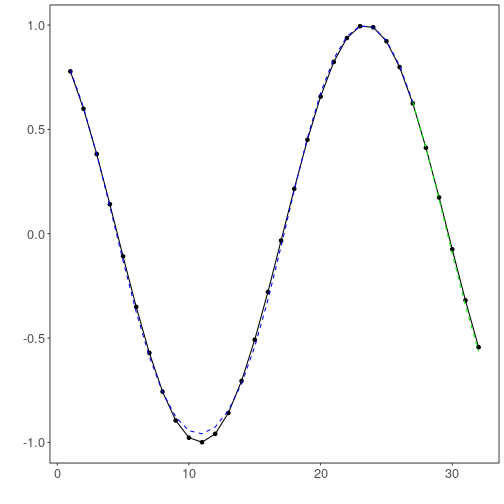
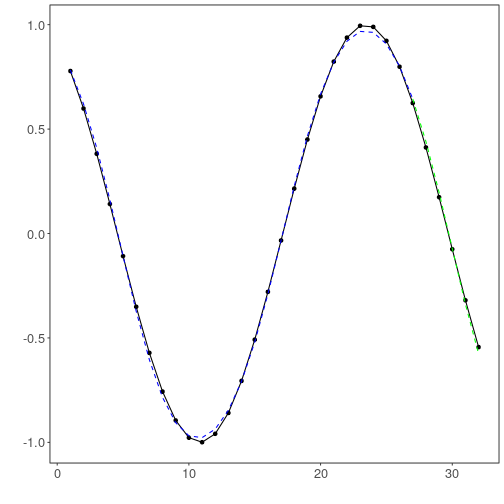
Update

diff --git a/timeseries/ts_encode-decode.md b/timeseries/ts_encode-decode.md
@@ -81,13 +81,13 @@ print(head(result))
 ```
 
 ```
-##             [,1]      [,2]      [,3]      [,4]      [,5]
-## [1,] 0.005899079 0.2473060 0.4810104 0.6816949 0.8435537
-## [2,] 0.247921556 0.4759410 0.6874245 0.8433184 0.9530915
-## [3,] 0.477905065 0.6812820 0.8415205 0.9477597 0.9946346
-## [4,] 0.683750272 0.8423758 0.9488163 1.0009781 0.9881719
-## [5,] 0.843079805 0.9486498 0.9955989 0.9847809 0.9072384
-## [6,] 0.948068738 0.9979724 0.9826242 0.9105821 0.7830940
+##              [,1]      [,2]      [,3]      [,4]      [,5]
+## [1,] 0.0009180866 0.2411170 0.4755502 0.6770271 0.8447449
+## [2,] 0.2467233539 0.4811816 0.6752319 0.8408856 0.9497412
+## [3,] 0.4789989889 0.6836885 0.8473600 0.9546397 0.9987327
+## [4,] 0.6813468337 0.8394396 0.9527554 0.9969652 0.9816822
+## [5,] 0.8379791975 0.9457880 0.9960683 0.9792536 0.9108921
+## [6,] 0.9472847581 0.9969479 0.9812976 0.9062980 0.7824365
 ```
 
 ### Encoding of test
@@ -113,10 +113,10 @@ print(head(result))
 
 ```
 ##           [,1]      [,2]        [,3]        [,4]       [,5]
-## [1,] 0.9927783 0.9173319  0.79706490  0.62158769  0.4016899
-## [2,] 0.9268878 0.8025707  0.63260961  0.41169983  0.1724054
-## [3,] 0.8110301 0.5473571  0.28096804 -0.02071698 -0.3031771
-## [4,] 0.6093938 0.3481730  0.08180707 -0.18847840 -0.4511133
-## [5,] 0.3715065 0.1078450 -0.15037483 -0.38949436 -0.5976698
+## [1,] 0.9897087 0.9197776  0.79175502  0.63255465  0.4102522
+## [2,] 0.9194248 0.8034054  0.63327485  0.41706789  0.1719477
+## [3,] 0.8690377 0.6229484  0.35705829  0.01981923 -0.2952199
+## [4,] 0.5846209 0.3490518  0.08601934 -0.19765061 -0.4623384
+## [5,] 0.2920497 0.0613862 -0.19146776 -0.41465732 -0.6109971
 ```
 

diff --git a/timeseries/ts_encode.md b/timeseries/ts_encode.md
@@ -81,13 +81,13 @@ print(head(result))
 ```
 
 ```
-##            [,1]        [,2]       [,3]
-## [1,] -0.5540483 -0.57081294 -0.4571421
-## [2,] -0.7810479 -0.46630824 -0.6575848
-## [3,] -0.9695484 -0.33929244 -0.8367142
-## [4,] -1.0994371 -0.19539441 -0.9844778
-## [5,] -1.1636220 -0.03192895 -1.0976430
-## [6,] -1.1601703  0.12822782 -1.1655099
+##           [,1]      [,2]      [,3]
+## [1,] 0.1810592 -1.124725 0.4501411
+## [2,] 0.3799480 -1.273518 0.6306788
+## [3,] 0.5568231 -1.365695 0.7295018
+## [4,] 0.7362314 -1.385384 0.7632770
+## [5,] 0.8959154 -1.335760 0.7465954
+## [6,] 1.0223302 -1.228883 0.6884862
 ```
 
 ### Encoding of test
@@ -112,11 +112,11 @@ print(head(result))
 ```
 
 ```
-##             [,1]      [,2]       [,3]
-## [1,] -0.95122117 0.4011939 -1.1892285
-## [2,] -0.74593300 0.5162513 -1.1589203
-## [3,] -0.28517359 0.8449734 -1.2708745
-## [4,]  0.02256187 0.9314255 -1.1175823
-## [5,]  0.33925170 0.7851774 -0.9070409
+##           [,1]        [,2]         [,3]
+## [1,] 1.1613793 -0.88309526  0.471583068
+## [2,] 1.1564772 -0.64837044  0.315891922
+## [3,] 1.1801951 -0.16805914 -0.006610699
+## [4,] 1.0914323  0.03069361 -0.132223412
+## [5,] 0.8573107  0.23198779 -0.376686990
 ```
 

diff --git a/timeseries/ts_lstm.md b/timeseries/ts_lstm.md
@@ -64,7 +64,7 @@ ev_adjust$mse
 ```
 
 ```
-## [1] 0.0003773015
+## [1] 0.0003157563
 ```
 
 ### Prediction of test
@@ -84,7 +84,7 @@ print(sprintf("%.2f, %.2f", output, prediction))
 ```
 
 ```
-## [1] "0.41, 0.41"   "0.17, 0.16"   "-0.08, -0.10" "-0.32, -0.34" "-0.54, -0.56"
+## [1] "0.41, 0.44"   "0.17, 0.20"   "-0.08, -0.07" "-0.32, -0.34" "-0.54, -0.58"
 ```
 
 ### Evaluation of test data
@@ -97,7 +97,7 @@ print(head(ev_test$metrics))
 
 ```
 ##            mse      smape        R2
-## 1 0.0002929144 0.08068743 0.9974701
+## 1 0.0005456442 0.07028023 0.9952872
 ```
 
 ```r
@@ -105,7 +105,7 @@ print(sprintf("smape: %.2f", 100*ev_test$metrics$smape))
 ```
 
 ```
-## [1] "smape: 8.07"
+## [1] "smape: 7.03"
 ```
 
 ### Plot results

diff --git a/timeseries/ts_conv1d.md b/timeseries/ts_conv1d.md
@@ -64,7 +64,7 @@ ev_adjust$mse
 ```
 
 ```
-## [1] 2.649499e-06
+## [1] 7.407632e-06
 ```
 
 ### Prediction of test
@@ -83,20 +83,20 @@ ev_test
 ## [1]  0.41211849  0.17388949 -0.07515112 -0.31951919 -0.54402111
 ## 
 ## $prediction
-## [1]  0.4105956  0.1711172 -0.0787387 -0.3223954 -0.5475302
+## [1]  0.41817239  0.17656072 -0.07184471 -0.32174216 -0.54531935
 ## 
 ## $smape
-## [1] 0.01635785
+## [1] 0.01682605
 ## 
 ## $mse
-## [1] 8.692349e-06
+## [1] 1.226891e-05
 ## 
 ## $R2
-## [1] 0.9999249
+## [1] 0.999894
 ## 
 ## $metrics
-##            mse      smape        R2
-## 1 8.692349e-06 0.01635785 0.9999249
+##            mse      smape       R2
+## 1 1.226891e-05 0.01682605 0.999894
 ```
 
 ### Plot results

diff --git a/timeseries/ts_arima.md b/timeseries/ts_arima.md
@@ -11,23 +11,6 @@
 library(daltoolbox) 
 ```
 
-```
-## Registered S3 method overwritten by 'quantmod':
-##   method            from
-##   as.zoo.data.frame zoo
-```
-
-```
-## 
-## Attaching package: 'daltoolbox'
-```
-
-```
-## The following object is masked from 'package:base':
-## 
-##     transform
-```
-
 ### Series for studying
 
 

diff --git a/timeseries/ts_knn.md b/timeseries/ts_knn.md
@@ -9,11 +9,6 @@
 
 #loading DAL
 library(daltoolbox) 
-load_github("cefet-rj-dal/tspredit")
-```
-
-```
-## Error in load_github("cefet-rj-dal/tspredit"): could not find function "load_github"
 ```
 
 ### Series for studying
